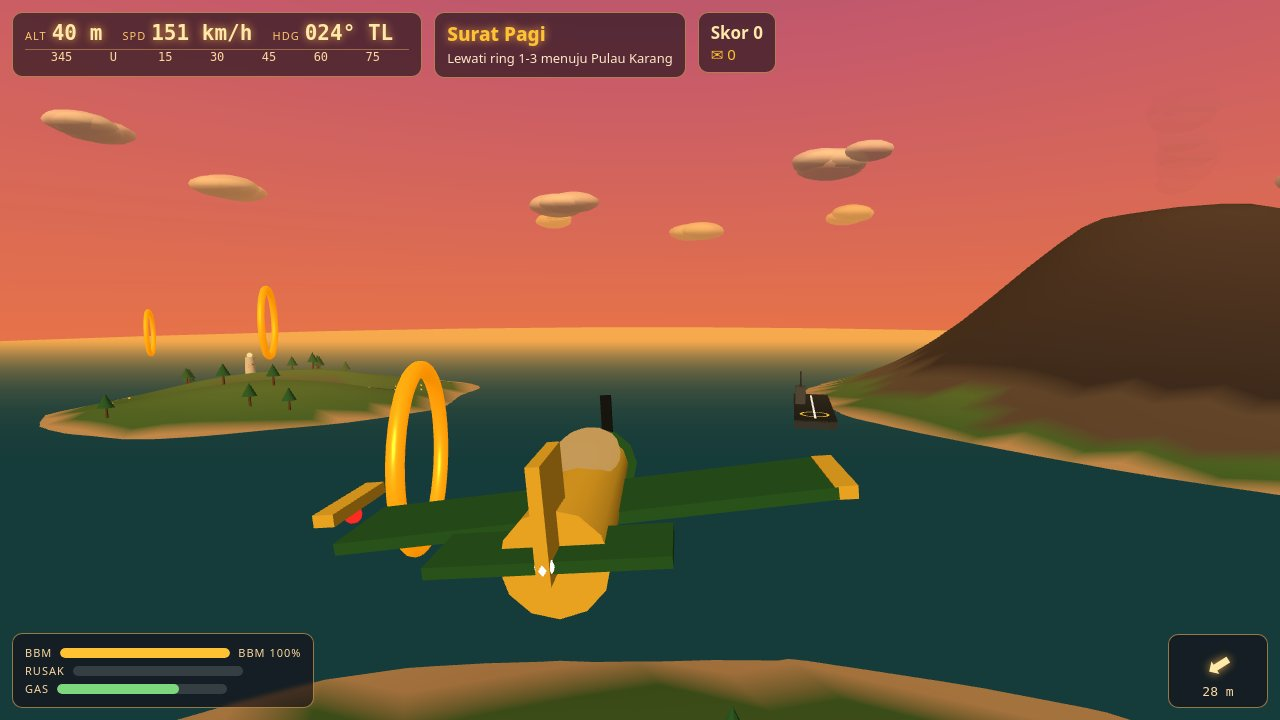
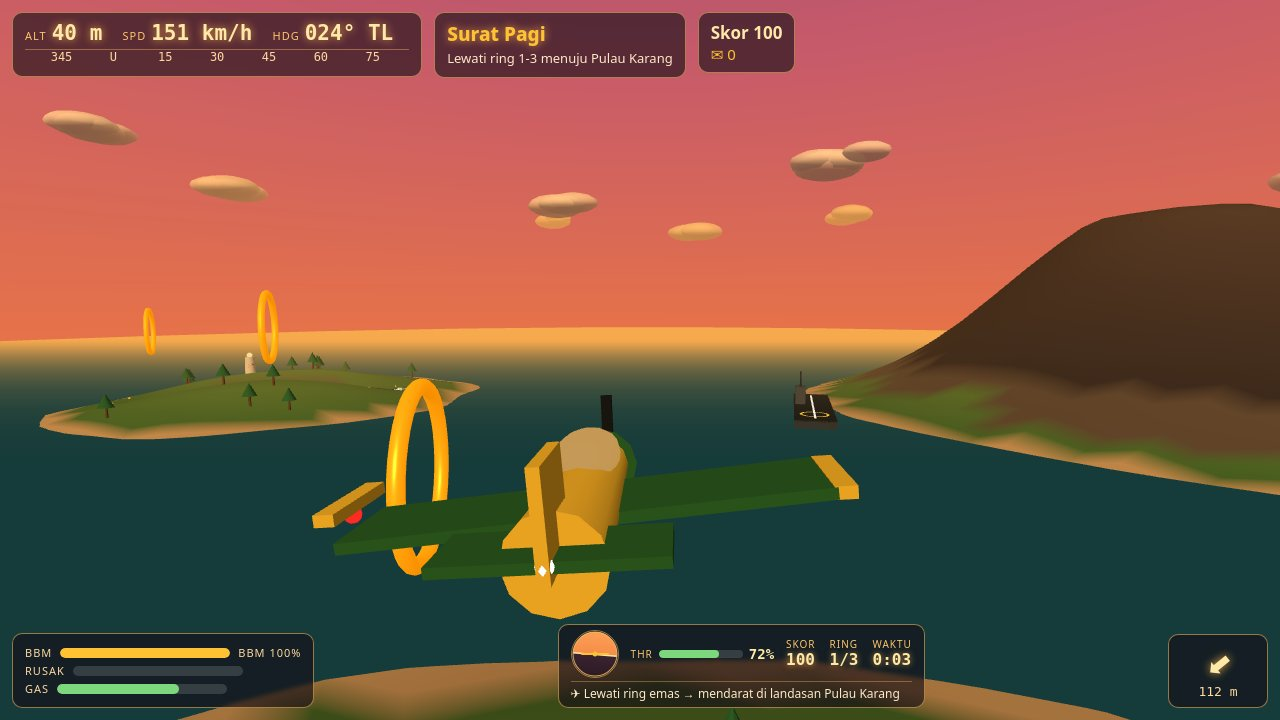
HUD bawah lebih padat: attitude indicator + THR + skor/ring/waktu hidup + instruksi misi
Mock 1v1 73% (HOLD): satu-satunya kekalahan dari panel bawah yang kalah
padat vs NUSA/RIDGE. Panel instrumen bawah baru di tengah: attitude
indicator kecil (langit senja/tanah), bar THR + %, counter SKOR/RING/WAKTU
yang hidup, dan baris instruksi 'lewati ring emas, lalu mendarat di ...'.
Cover kini staging ring pertama terlewati lewat handler asli (Skor 100,
RING 1/3). HUD atas, misi, bar BBM/RUSAK/GAS, flight model, terrain, dan
pesawat tidak berubah. Screenshot di-render ulang (seed 1, settle 90 frame).

diff --git a/game/src/hud.js b/game/src/hud.js
@@ -20,8 +20,66 @@ export function createHud(callbacks) {
     wpArrow: $('hud-wp-arrow'), wpDist: $('hud-wp-dist'),
     score: $('hud-score'), coins: $('hud-coins'), timer: $('hud-timer'),
     toast: $('hud-toast'), msg: $('hud-center-msg'),
+    att: $('hud-att'), thrBar: $('hud-thr-bar'), thrText: $('hud-thr-text'),
+    panelScore: $('hud-panel-score'), panelRings: $('hud-panel-rings'),
+    panelTime: $('hud-panel-time'), instruction: $('hud-instruction'),
   };
   let toastTimer = 0;
+  // Mission clock (counts up from mission start) + the active mission spec,
+  // used by the dense bottom instrument panel.
+  let elapsed = 0;
+  let missionSpec = null;
+  const attCtx = els.att ? els.att.getContext('2d') : null;
+
+  // Small attitude indicator: sunset sky above a dark ground, horizon bar
+  // counter-rotated against the bank, fixed amber aircraft symbol on top.
+  function drawAttitude(pitch, roll) {
+    if (!attCtx) return;
+    const S = 92, R = S / 2;
+    attCtx.clearRect(0, 0, S, S);
+    attCtx.save();
+    attCtx.beginPath();
+    attCtx.arc(R, R, R - 2, 0, Math.PI * 2);
+    attCtx.clip();
+    attCtx.translate(R, R);
+    attCtx.rotate(-roll);
+    attCtx.translate(0, pitch * 46);
+    const sky = attCtx.createLinearGradient(0, -R - 46, 0, 0);
+    sky.addColorStop(0, '#ffb35e');
+    sky.addColorStop(1, '#f78d4a');
+    attCtx.fillStyle = sky;
+    attCtx.fillRect(-R - 4, -R - 50, S + 8, R + 50);
+    const gnd = attCtx.createLinearGradient(0, 0, 0, R + 46);
+    gnd.addColorStop(0, '#3a2430');
+    gnd.addColorStop(1, '#1c1016');
+    attCtx.fillStyle = gnd;
+    attCtx.fillRect(-R - 4, 0, S + 8, R + 50);
+    attCtx.fillStyle = '#ffe9a8';
+    attCtx.fillRect(-R - 4, -1.5, S + 8, 3);
+    attCtx.restore();
+    attCtx.strokeStyle = '#ffc233';
+    attCtx.lineWidth = 4;
+    attCtx.lineCap = 'round';
+    attCtx.beginPath();
+    attCtx.moveTo(R - 26, R);
+    attCtx.lineTo(R + 26, R);
+    attCtx.stroke();
+    attCtx.fillStyle = '#ffc233';
+    attCtx.beginPath();
+    attCtx.arc(R, R, 5, 0, Math.PI * 2);
+    attCtx.fill();
+    attCtx.strokeStyle = 'rgba(255,196,107,0.8)';
+    attCtx.lineWidth = 2;
+    attCtx.beginPath();
+    attCtx.arc(R, R, R - 2, 0, Math.PI * 2);
+    attCtx.stroke();
+  }
+
+  function fmtClock(s) {
+    const m = Math.floor(s / 60);
+    const sec = Math.floor(s % 60);
+    return `${m}:${String(sec).padStart(2, '0')}`;
+  }
 
   function show() { hud.style.display = 'block'; }
   function hide() { hud.style.display = 'none'; }
@@ -65,6 +123,16 @@ export function createHud(callbacks) {
     els.score.textContent = `Skor ${mission ? mission.score : 0}`;
     els.timer.textContent = mission && mission.timeLeft > 0
       ? `⏱ ${Math.ceil(mission.timeLeft)} dtk` : '';
+    // Dense bottom panel: live throttle, score, ring progress, mission clock.
+    if (mission) elapsed += dt;
+    drawAttitude(f.pitch || 0, f.roll || 0);
+    const thrPct = Math.round((f.throttle || 0) * 100);
+    els.thrBar.style.width = `${thrPct}%`;
+    els.thrText.textContent = `${thrPct}%`;
+    els.panelScore.textContent = mission ? mission.score : 0;
+    els.panelRings.textContent = mission && mission.ringsTotal > 0
+      ? `${mission.ringsDone}/${mission.ringsTotal}` : '–';
+    els.panelTime.textContent = fmtClock(elapsed);
     if (mission) {
       els.objective.textContent = mission.stepLabel;
       els.mission.textContent = `${mission.currentStep ? '' : ''}${$('hud-mission').dataset.name || ''}`;
@@ -86,6 +154,20 @@ export function createHud(callbacks) {
   function setMissionName(name) {
     $('hud-mission').dataset.name = name;
     $('hud-mission').textContent = name;
+    // Reset the mission clock and build the fly-then-land instruction line
+    // from this mission's own steps ("lewati ring, lalu mendarat di ...").
+    elapsed = 0;
+    missionSpec = MISSIONS.find((m) => m.name === name) || null;
+    if (missionSpec) {
+      const land = missionSpec.steps.find((s) => s.type === 'land');
+      const first = missionSpec.steps[0];
+      const landName = !land ? 'runway'
+        : land.target === 'carrier' ? 'dek kapal induk'
+        : land.target === 'merpati' ? 'landasan Merpati' : 'landasan Pulau Karang';
+      const flyPart = first && first.type === 'flyto'
+        ? 'Terbang ke titik jemput' : 'Lewati ring emas';
+      els.instruction.textContent = `✈ ${flyPart} → mendarat di ${landName}`;
+    }
   }
   function setCoins(n) { els.coins.textContent = `✉ ${n}`; }
 

diff --git a/game/src/shots.js b/game/src/shots.js
@@ -6,33 +6,38 @@ import { RINGS } from './config.js';
 
 const PRESETS = {
   // Cover: chase view, plane mid-flight toward rings 1-3, home runway behind,
-  // Pulau Karang ahead. Every criterion-1 element in one frame.
+  // Pulau Karang ahead. Every criterion-1 element in one frame. Ring 1 is
+  // collected through the real handler so the HUD shows live progress
+  // (Skor 100, RING 1/3) instead of a standing-zero score.
   cover: {
     mission: 0, weather: 'clear',
+    collectRings: [0],
     plane: { x: -118, y: 40, z: -66, heading: 0.42, pitch: 0.02, roll: -0.08, speed: 42, throttle: 0.72 },
     cam: { dist: 15, height: 5.5, lateral: 2.5 },
-    settleFrames: 50,
+    // 90 frames: the staging toast (2.6 s) is long gone by capture, and the
+    // slow software renderer still finishes well inside the shot timeout.
+    settleFrames: 90,
   },
   // Mission: banking through a ring over Pulau Karang, volcano behind.
   mission: {
     mission: 1, weather: 'crosswind',
     plane: { x: 150, y: 42, z: -70, heading: 1.0, pitch: -0.04, roll: 0.35, speed: 55, throttle: 0.85 },
     cam: { dist: 17, height: 6, lateral: 0 },
-    settleFrames: 50,
+    settleFrames: 90,
   },
   // Landing: final approach to Pulau Karang's strip, low over the threshold.
   landing: {
     mission: 0, weather: 'clear', skipRings: true,
     plane: { x: 180, y: 13, z: -218, heading: Math.PI / 2, pitch: -0.06, roll: 0, speed: 30, throttle: 0.34 },
     cam: { dist: 16, height: 4, lateral: 5 },
-    settleFrames: 50,
+    settleFrames: 90,
   },
   // Storm: in the thunderstorm, rain + lightning, ring glowing ahead.
   storm: {
     mission: 4, weather: 'storm',
     plane: { x: -40, y: 55, z: 20, heading: 0.5, pitch: -0.03, roll: 0.2, speed: 46, throttle: 0.8 },
     cam: { dist: 15, height: 5, lateral: 0 },
-    settleFrames: 50,
+    settleFrames: 90,
   },
 };
 
@@ -52,6 +57,11 @@ export function stageShot(game, preset) {
     // landing step, exactly as a player would.
     const rings = game.mission.currentStep().rings || [];
     for (const i of rings.slice()) game.collectRing(i);
+  }
+  if (preset.collectRings) {
+    // Collect listed rings through the real handler to stage mid-mission
+    // progress (score + ring counter alive), exactly as a player would.
+    for (const i of preset.collectRings) game.collectRing(i);
   }
   game.setPlane(preset.plane);
   game.setWeather(preset.weather);

diff --git a/game/styles.css b/game/styles.css
@@ -35,6 +35,23 @@ html, body { margin: 0; height: 100%; overflow: hidden; background: #1a1218;
 #hud-dmg-fill { background: #e23b2e; width: 0%; }
 #hud-thr-fill { background: #7dd87d; width: 0%; }
 #hud-wp { text-align: center; min-width: 74px; }
+#hud-panel { padding: 5px 12px; }
+#hud-panel-row { display: flex; align-items: center; gap: 12px; }
+#hud-att { width: 46px; height: 46px; border-radius: 50%;
+  border: 1px solid rgba(255, 196, 107, 0.55); display: block; flex: none; }
+#hud-thr-wrap { display: flex; align-items: center; gap: 6px; }
+.hud-mini-label { font-size: 10px; letter-spacing: 1px; color: #ffc46b; }
+.bar.mini { width: 84px; height: 8px; }
+#hud-thr-bar { background: #7dd87d; width: 0%; }
+#hud-thr-text { font-family: ui-monospace, monospace; font-size: 14px; font-weight: 700;
+  color: #ffe9a8; }
+#hud-progress { display: flex; gap: 14px; }
+.hud-prog { display: flex; flex-direction: column; align-items: flex-start; line-height: 1.15; }
+.hud-prog b { font-family: ui-monospace, monospace; font-size: 16px; color: #ffe9a8;
+  text-shadow: 0 0 6px rgba(255, 180, 80, 0.7); }
+#hud-instruction { margin-top: 3px; padding-top: 3px;
+  border-top: 1px solid rgba(255, 196, 107, 0.35);
+  font-size: 12px; color: #ffe9c9; white-space: nowrap; }
 #hud-wp-arrow { font-size: 30px; color: #ffe9a8; text-shadow: 0 0 10px rgba(255, 180, 80, 0.9); }
 #hud-wp-dist { font-size: 13px; font-family: ui-monospace, monospace; color: #ffd9a0; }
 #hud-toast { position: absolute; top: 96px; left: 50%; transform: translateX(-50%);

diff --git a/game/src/rings.js b/game/src/rings.js
@@ -100,6 +100,10 @@ export function createMission(mission, rings, onEvent) {
   let timeLeft = 0;
   let score = 0;
   let done = false;
+  // Rings collected across the whole mission (for the HUD progress counter).
+  let ringsCollected = 0;
+  const totalRings = mission.steps.reduce(
+    (n, s) => n + (s.type === 'rings' ? s.rings.length : 0), 0);
 
   function currentStep() { return mission.steps[stepIdx]; }
 
@@ -124,7 +128,7 @@ export function createMission(mission, rings, onEvent) {
   }
 
   function start() {
-    stepIdx = 0; score = 0; done = false;
+    stepIdx = 0; score = 0; done = false; ringsCollected = 0;
     startStep();
   }
 
@@ -132,6 +136,7 @@ export function createMission(mission, rings, onEvent) {
     const step = currentStep();
     if (!step || step.type !== 'rings') return;
     stepRingsDone++;
+    ringsCollected++;
     score += RING_SCORE;
     onEvent('ring', { index: i, score, left: step.rings.length - stepRingsDone });
     if (stepRingsDone >= step.rings.length) {
@@ -202,6 +207,8 @@ export function createMission(mission, rings, onEvent) {
   return { start, onRing, onFlyTo, onLand, tick, targetPos, currentStep,
     get stepLabel() { const s = currentStep(); return s ? s.label : 'Misi selesai'; },
     get score() { return score; },
+    get ringsDone() { return ringsCollected; },
+    get ringsTotal() { return totalRings; },
     get timeLeft() { return timeLeft; },
     get finished() { return done; },
     get stepIndex() { return stepIdx; },

diff --git a/game/index.html b/game/index.html
@@ -35,6 +35,22 @@
       <div class="bar-row"><span>RUSAK</span><div class="bar"><div id="hud-dmg-fill"></div></div></div>
       <div class="bar-row"><span>GAS</span><div class="bar"><div id="hud-thr-fill"></div></div></div>
     </div>
+    <div class="hud-box" id="hud-panel">
+      <div id="hud-panel-row">
+        <canvas id="hud-att" width="92" height="92"></canvas>
+        <div id="hud-thr-wrap">
+          <span class="hud-mini-label">THR</span>
+          <div class="bar mini"><div id="hud-thr-bar"></div></div>
+          <span id="hud-thr-text">0%</span>
+        </div>
+        <div id="hud-progress">
+          <span class="hud-prog"><span class="hud-mini-label">SKOR</span><b id="hud-panel-score">0</b></span>
+          <span class="hud-prog"><span class="hud-mini-label">RING</span><b id="hud-panel-rings">0/3</b></span>
+          <span class="hud-prog"><span class="hud-mini-label">WAKTU</span><b id="hud-panel-time">0:00</b></span>
+        </div>
+      </div>
+      <div id="hud-instruction">✈ Lewati ring emas → mendarat di runway</div>
+    </div>
     <div class="hud-box" id="hud-wp">
       <div id="hud-wp-arrow">⬆</div>
       <div id="hud-wp-dist"></div>
